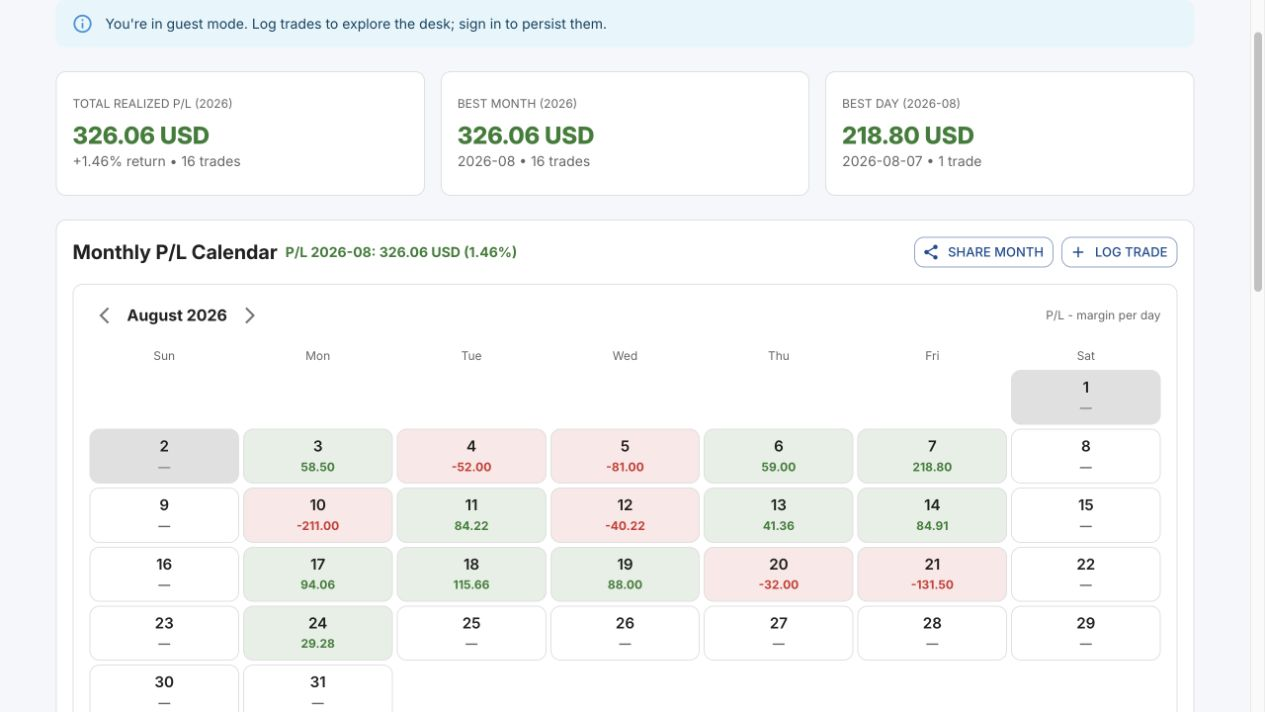
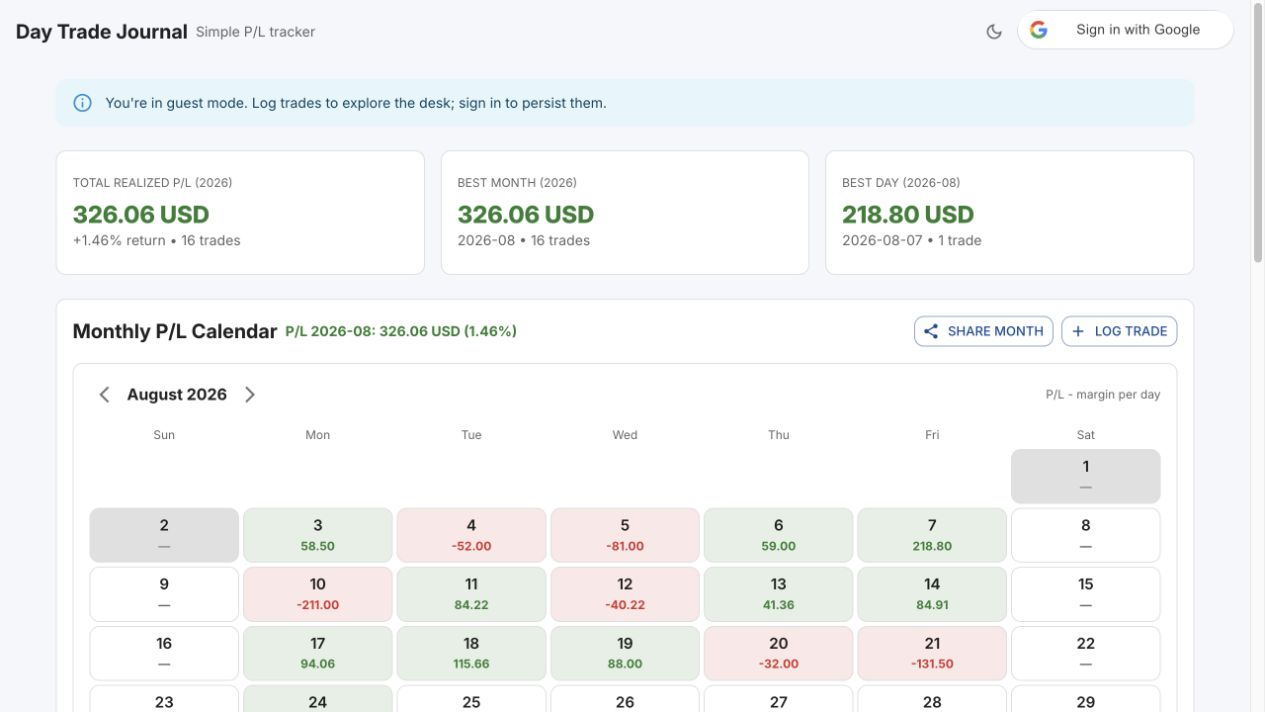
fix: correct project homepage captures

diff --git a/src/components/Content.js b/src/components/Content.js
@@ -188,7 +188,7 @@ function Header() {
                             </Flex>
                             <Text fontSize={isNotSmallerScreen ? '2xl' : 'xl'} p='2%'>A full-stack trading journal for recording stock and option trades, tracking realized profit and loss, and reviewing performance through dashboards and monthly calendars.</Text>
                             <Link href="https://www.tradelog.ca/" aria-label="Open TradeLog website" isExternal mt='auto'>
-                                <Image w='100%' h={isNotSmallerScreen ? '332px' : '197px'} objectFit='cover' src="tradelog-homepage.jpg" alt="TradeLog trading dashboard homepage" loading="lazy" filter={isDark ? 'invert(0.9) hue-rotate(180deg) brightness(1.05) contrast(1.05)' : 'none'} transition='filter 0.25s ease'/>
+                                <Image w='100%' h={isNotSmallerScreen ? '332px' : '197px'} objectFit='cover' src={isDark ? 'tradelog-homepage-dark.jpg' : 'tradelog-homepage.jpg'} alt="TradeLog trading dashboard homepage" loading="lazy"/>
                             </Link>
                         </Box>
                         <Box w={isNotSmallerScreen ? '590px' : '350px'} minH={isNotSmallerScreen ? '590px' : '470px'} rounded='10px' overflow='hidden' boxShadow='md' bg={isDark ? 'gray.700' : 'gray.200'} m='1%' shadow='xl' display='flex' flexDirection='column'>
